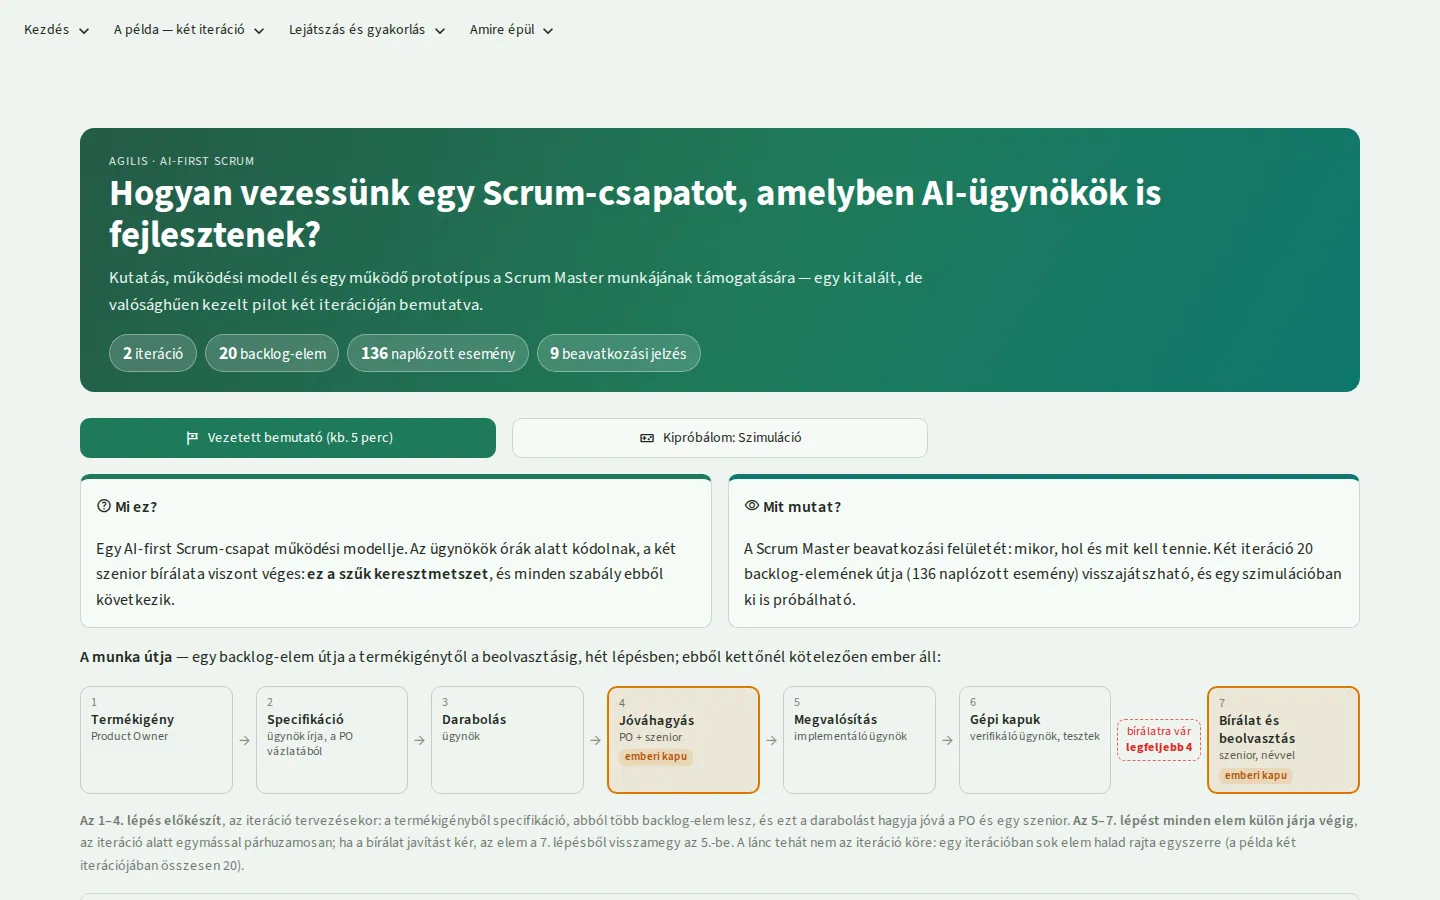
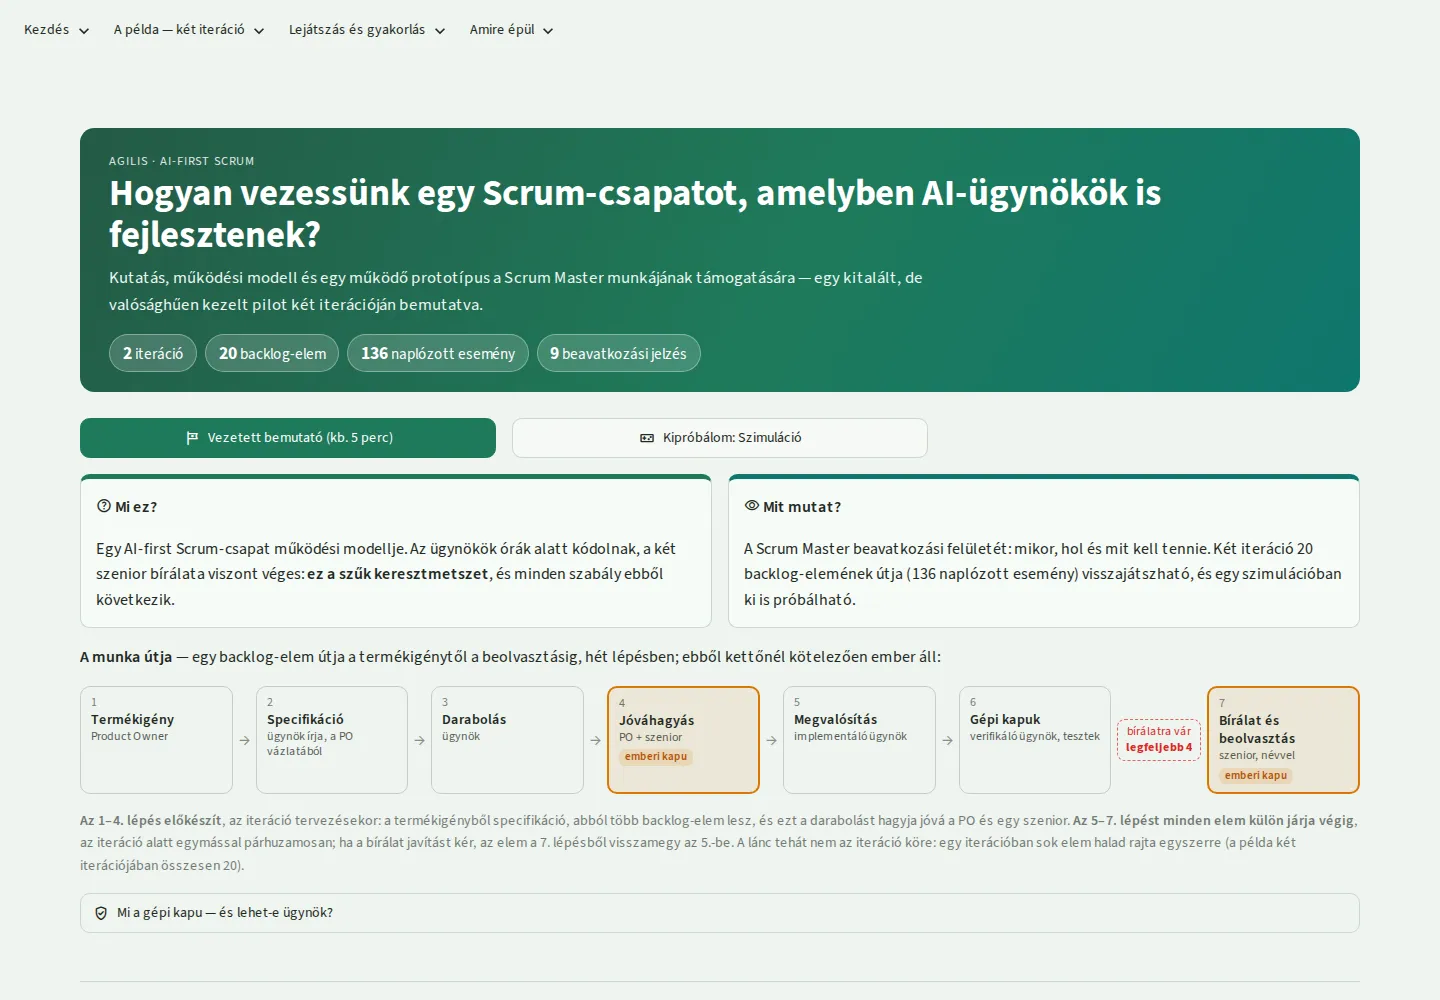
Új kártyák: Projektkövető (első) és Hibrid PM; AI-first Scrum a showcase repóra és új képekre kötve; új sorrend
Claude-Session: https://claude.ai/code/session_01FrW413jGKbPDdKH5QZpC6H

diff --git a/src/content/projects/sm-all.md b/src/content/projects/sm-all.md
@@ -3,17 +3,17 @@ title_hu: "AI-first Scrum — amikor AI-ügynökök is fejlesztenek"
 title_en: "AI-first Scrum — when AI agents write code too"
 why_hu: "Mi lesz a Scrum Master munkájával, ha a csapatban AI-ügynökök is fejlesztenek? Erre kerestem választ."
 why_en: "What happens to a Scrum Master's job when AI agents are part of the development team? That is the question I set out to answer."
-summary_hu: "Hivatkozott kutatás, abból levezetett működési modell és egy kipróbálható prototípus, egy kitalált csapat két iterációján bemutatva."
-summary_en: "Referenced research, an operating model derived from it, and a working prototype, demonstrated on two iterations of a fictional team."
+summary_hu: "Hivatkozott kutatás (36 forrás), abból levezetett működési modell és egy kipróbálható prototípus: egy kitalált csapat két iterációja, animációval és olyan szimulációval, ahol a döntéseket te hozod."
+summary_en: "Referenced research (36 sources), an operating model derived from it and a working prototype: two iterations of a fictional team, with an animation and a simulation where you make the decisions yourself."
 learned_hu: "Az ügynökök órák alatt kódolnak, a szűk keresztmetszet az emberi bírálat lesz — minden szabály ebből következik."
 learned_en: "Agents write code in hours; the bottleneck becomes human review, and every rule follows from that."
-tech: ["Python", "Streamlit", "AI-ügynökök"]
+tech: ["Python", "Streamlit", "AI-ügynökök", "pytest", "GitHub Actions"]
 tools: ["Claude Code"]
-repoUrls: []
+repoUrls: ["https://github.com/htgitacc/PROJ_sm_all_showcase"]
 demoUrl: null
-images: ["/assets/projects/sm-all/01.webp"]
+images: ["/assets/projects/sm-all/01.webp", "/assets/projects/sm-all/02.webp", "/assets/projects/sm-all/03.webp", "/assets/projects/sm-all/04.webp"]
 featured: false
 wip: false
-order: 4
+order: 5
 draft: false
 ---

diff --git a/docs/HANDOFF.md b/docs/HANDOFF.md
@@ -23,6 +23,12 @@ A WordPress-portfólió (wpstage) később jön, ugyanebből a tartalomból.
   - Új sor a felhő alatt: **„Modellek és fejlesztési környezet"** (`llmModels` a `site.config.ts`-ben; Claude Code, Codex, Cursor, Gemini, Copilot, DeepSeek, GLM, Qwen, Kimi, Grok, Whisper, Groq, Pi, WSL, Linux, Tmux, VSCode).
   - My Anki: a „Gemini API" címke „API"-ra cserélve (a felhasználó később pontosítja).
 
+## 2026-11-05 (helyben, nincs pusholva)
+- Új kártyák: **Projektkövető** (`tracker-showcase.md`, `PROJ_tracker_showcase`, az első kártya; eszköz-címke üres: nem tudjuk, mivel készült) és **Hibrid PM** (`hibrid-showcase.md`, `PROJ_hibrid_showcase`, Claude Code). Az **AI-first Scrum** kártya a `PROJ_sm_all_showcase` repóra és az új képekre kötve.
+- Sorrend: Projektkövető 1, PACE 2, Hang Mindenes 3, PM-mindenes 4, AI-first Scrum 5, Hibrid PM 6, Selyemút 7, Légzésmetronóm 8; utánuk a többi.
+- Nem linkelt demók: `tracker.htgitacc.site` és `smpm.htlearningacc.abrdns.com` jelszó mögött van (a bejelentkezés oldalát kapná a látogató).
+- A `convert.cjs` harmadik paramétere a repó `public/` mappája legyen, nem a gyökér (különben `assets/` jön létre a gyökérben).
+
 ## Még nyitott
 1. **Kártyasorrend** végleges jóváhagyása; a „Wiki Tudástár" és az „MLOps és NLP tudásbázis" kártya neve hasonló: külön maradjanak, vagy az egyiket át kell nevezni?
 2. `projects.focus` szöveg pontosítása (a teljes eredeti: `docs/focus-eredeti-szoveg.md`).

diff --git a/src/content/projects/tracker-showcase.md b/src/content/projects/tracker-showcase.md
@@ -1,0 +1,19 @@
+---
+title_hu: "Projektkövető — mi akadt el, és mivel kezdjek ma?"
+title_en: "Project tracker — what is stuck, and what should I start with today?"
+why_hu: null
+why_en: null
+summary_hu: "Egy oldalon mutatja, melyik projekt halad, melyik akadt el, és mi kér figyelmet: GitHub-projektekhez, saját teendőkhöz és napi tevékenységekhez. Szabályok adják a biztos jelzéseket, az AI gombnyomásra legfeljebb öt javaslatot tesz, reggel és hetente Slack-üzenet érkezik."
+summary_en: "One page showing which project is moving, which is stuck and what needs attention: for GitHub projects, personal to-dos and daily activities. Rules produce the firm alerts, the AI adds at most five suggestions on request, and a Slack message arrives each morning and weekly."
+learned_hu: null
+learned_en: null
+tech: ["Python", "FastAPI", "SQLite", "Jinja2", "GitHub API", "DeepSeek", "Slack", "Caddy", "pytest"]
+tools: []
+repoUrls: ["https://github.com/htgitacc/PROJ_tracker_showcase"]
+demoUrl: null
+images: ["/assets/projects/tracker/01.webp", "/assets/projects/tracker/02.webp", "/assets/projects/tracker/03.webp", "/assets/projects/tracker/04.webp"]
+featured: false
+wip: false
+order: 1
+draft: false
+---

diff --git a/src/content/projects/hibrid-showcase.md b/src/content/projects/hibrid-showcase.md
@@ -1,0 +1,19 @@
+---
+title_hu: "Hibrid PM — egy AI-projekt vezetése: keret, kísérlet, kapu"
+title_en: "Hybrid PM — managing an AI project: frame, experiment, gate"
+why_hu: null
+why_en: null
+summary_hu: "Kutatás, módszertan és működő bemutató arról, hogyan vezethető egy AI-projekt prediktív kerettel, időkeretes kísérleti szakasszal és számszerű küszöbű kapukkal. Egy kitalált vállalati chatbot-projekten végigvezetve, kipróbálható PoC-kapu számolóval és sablontárral."
+summary_en: "Research, a method and a working demo for managing an AI project with a predictive frame, a time-boxed experimental phase and gates with numeric thresholds. Walked through a fictional enterprise chatbot project, with an interactive PoC-gate calculator and a template library."
+learned_hu: null
+learned_en: null
+tech: ["Python", "Streamlit", "pytest", "Playwright", "GitHub Actions"]
+tools: ["Claude Code"]
+repoUrls: ["https://github.com/htgitacc/PROJ_hibrid_showcase"]
+demoUrl: null
+images: ["/assets/projects/hibrid/01.webp", "/assets/projects/hibrid/02.webp", "/assets/projects/hibrid/03.webp", "/assets/projects/hibrid/04.webp"]
+featured: false
+wip: false
+order: 6
+draft: false
+---

diff --git a/src/content/projects/pm-all-showcase.md b/src/content/projects/pm-all-showcase.md
@@ -14,6 +14,6 @@ demoUrl: "https://pm-all-showcase.streamlit.app/"
 images: ["/assets/projects/pm-all/01.webp", "/assets/projects/pm-all/02.webp", "/assets/projects/pm-all/03.webp", "/assets/projects/pm-all/04.webp"]
 featured: false
 wip: false
-order: 3
+order: 4
 draft: false
 ---

diff --git a/src/content/projects/hang-mindenes-showcase.md b/src/content/projects/hang-mindenes-showcase.md
@@ -14,6 +14,6 @@ demoUrl: null
 images: ["/assets/projects/hang-mindenes/01.webp", "/assets/projects/hang-mindenes/02.webp", "/assets/projects/hang-mindenes/03.webp", "/assets/projects/hang-mindenes/04.webp"]
 featured: false
 wip: false
-order: 2
+order: 3
 draft: false
 ---

diff --git a/src/content/projects/selyemut-showcase.md b/src/content/projects/selyemut-showcase.md
@@ -14,6 +14,6 @@ demoUrl: "https://selyemut-negy-szala.htgitacc.workers.dev"
 images: ["/assets/projects/selyemut/01.webp", "/assets/projects/selyemut/02.webp", "/assets/projects/selyemut/03.webp"]
 featured: false
 wip: false
-order: 5
+order: 7
 draft: false
 ---

diff --git a/src/content/projects/metronom-showcase.md b/src/content/projects/metronom-showcase.md
@@ -14,6 +14,6 @@ demoUrl: "https://breath-metronome-phi.vercel.app"
 images: ["/assets/projects/metronom/01.webp", "/assets/projects/metronom/02.webp", "/assets/projects/metronom/03.webp"]
 featured: false
 wip: false
-order: 6
+order: 8
 draft: false
 ---

diff --git a/src/content/projects/pace-showcase.md b/src/content/projects/pace-showcase.md
@@ -14,7 +14,7 @@ demoUrl: null
 images: ["/assets/projects/pace/01.webp", "/assets/projects/pace/02.webp", "/assets/projects/pace/03.webp", "/assets/projects/pace/04.webp"]
 featured: false
 wip: false
-order: 1
+order: 2
 draft: false
 pdfUrls: []
 ---
